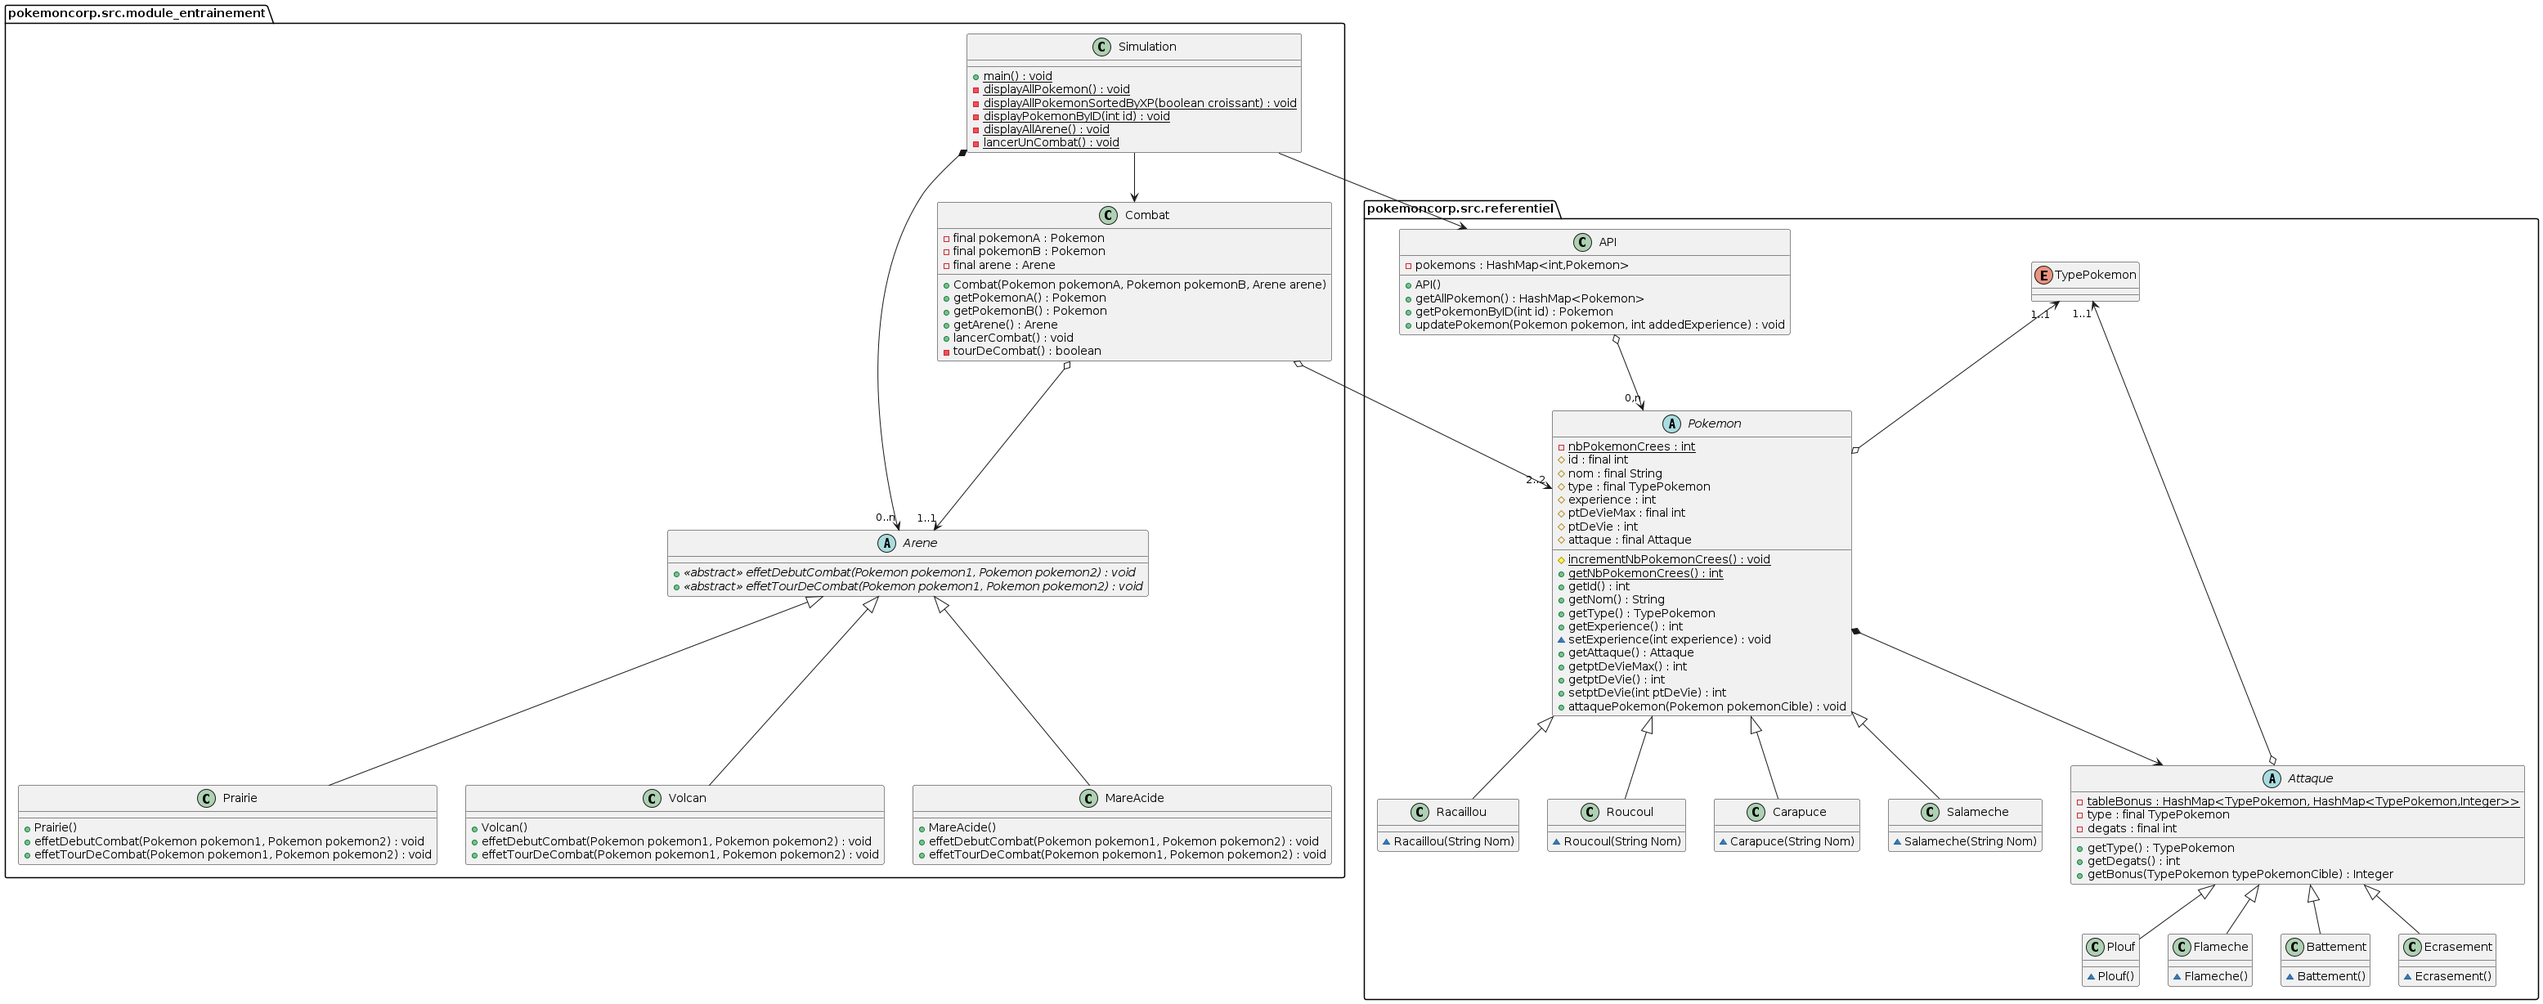
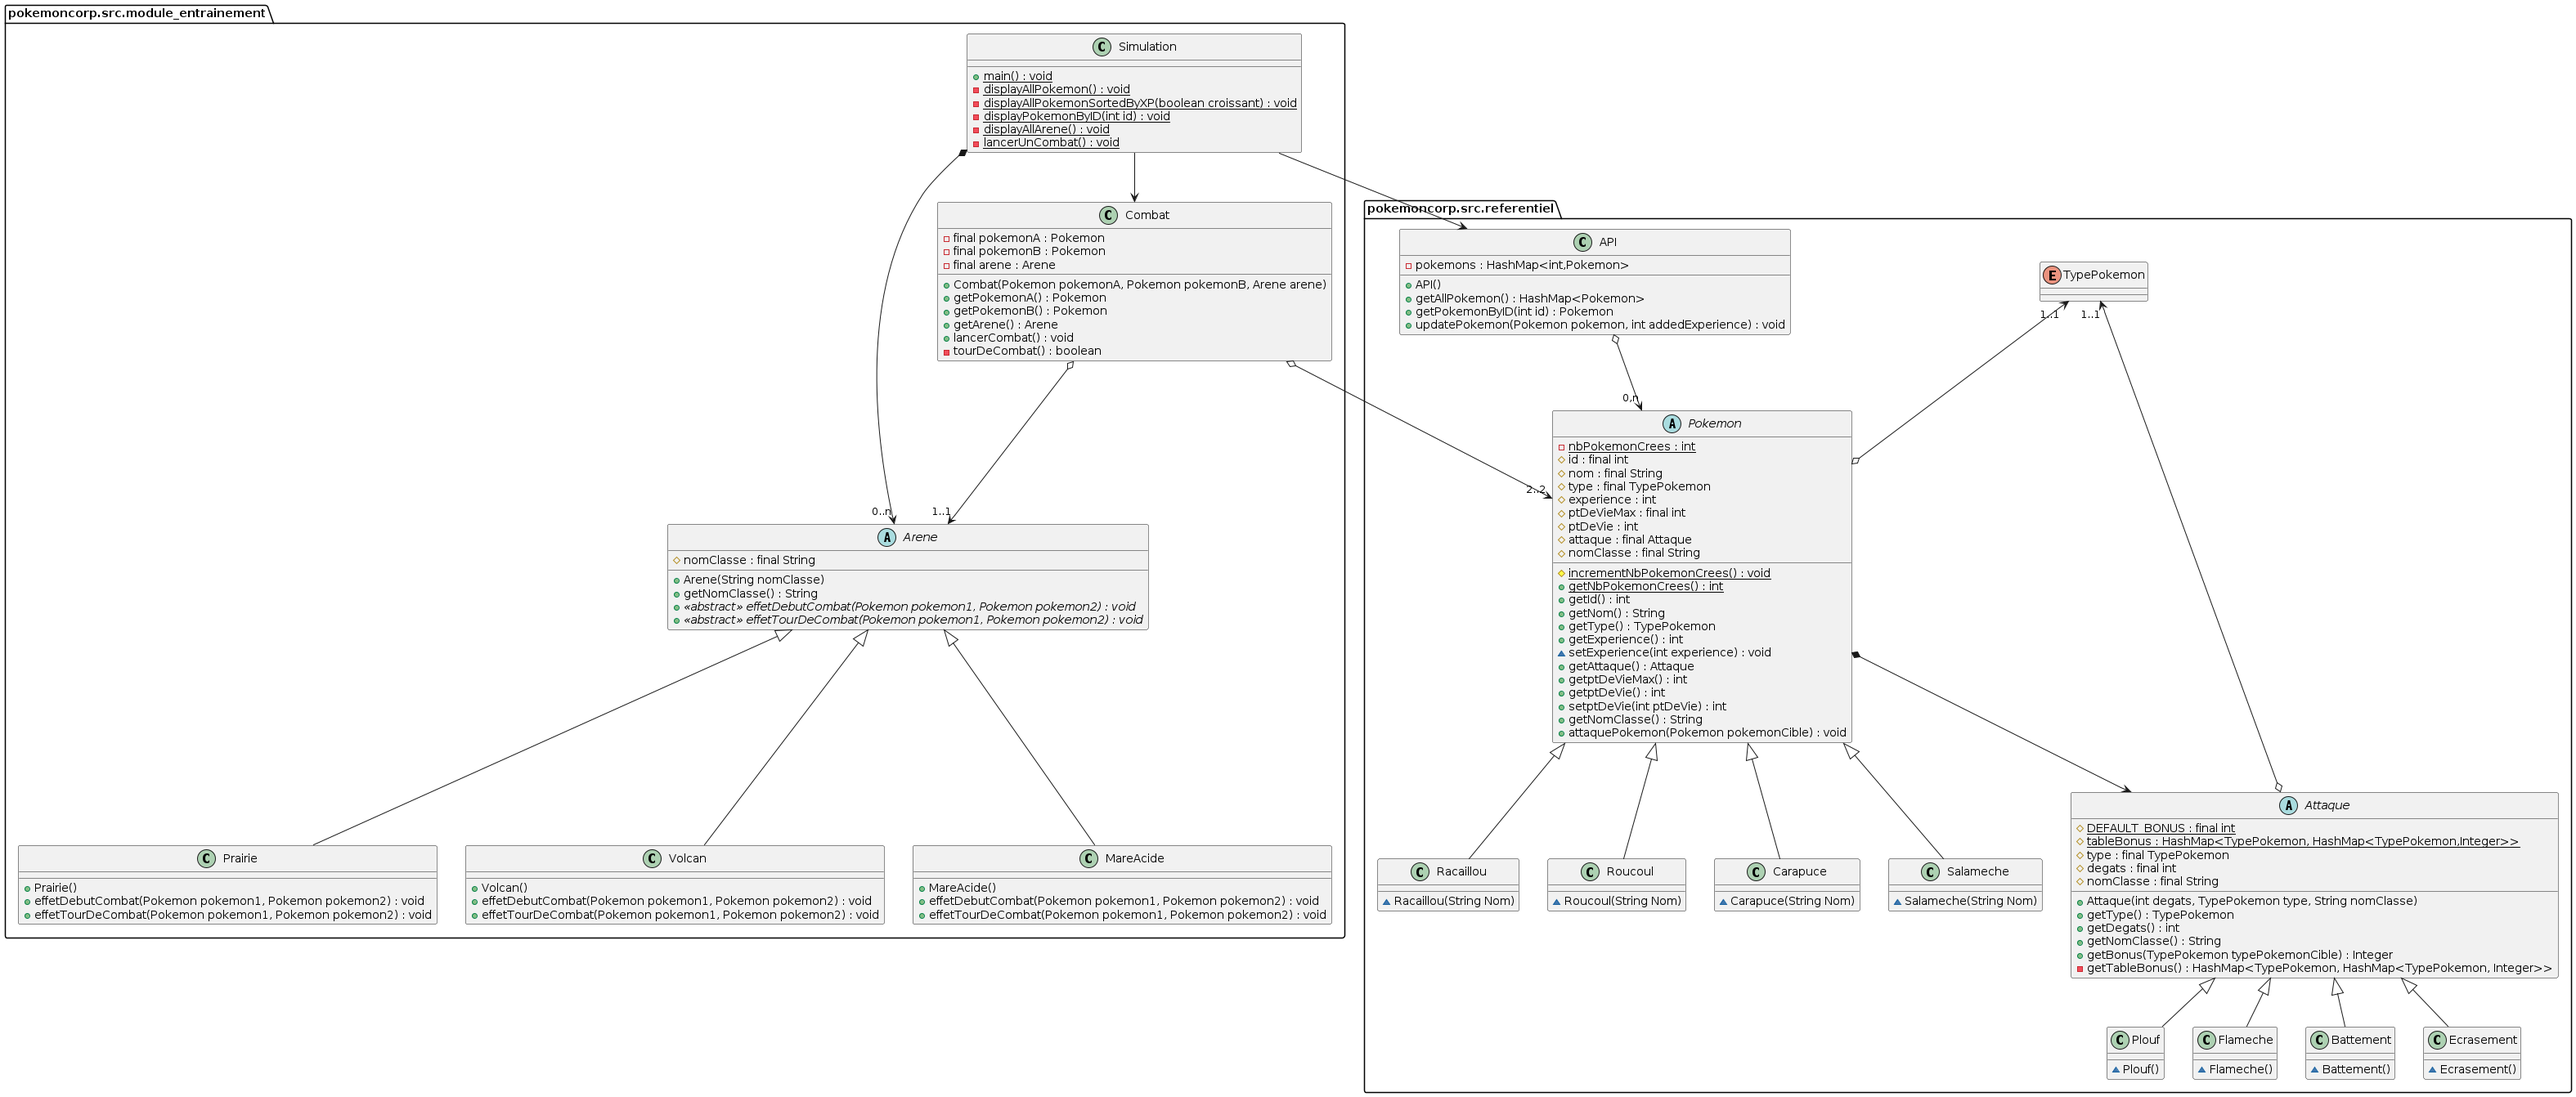
Update UML : nomClasse

diff --git a/pokemoncorp/src/referentiel/Attaque.java b/pokemoncorp/src/referentiel/Attaque.java
@@ -81,7 +81,7 @@ public abstract class Attaque {
         return DEFAULT_BONUS;
     }
 
-    public static HashMap<TypePokemon, HashMap<TypePokemon, Integer>> getTableBonus() {
+    private static HashMap<TypePokemon, HashMap<TypePokemon, Integer>> getTableBonus() {
         return tableBonus;
     }
 
